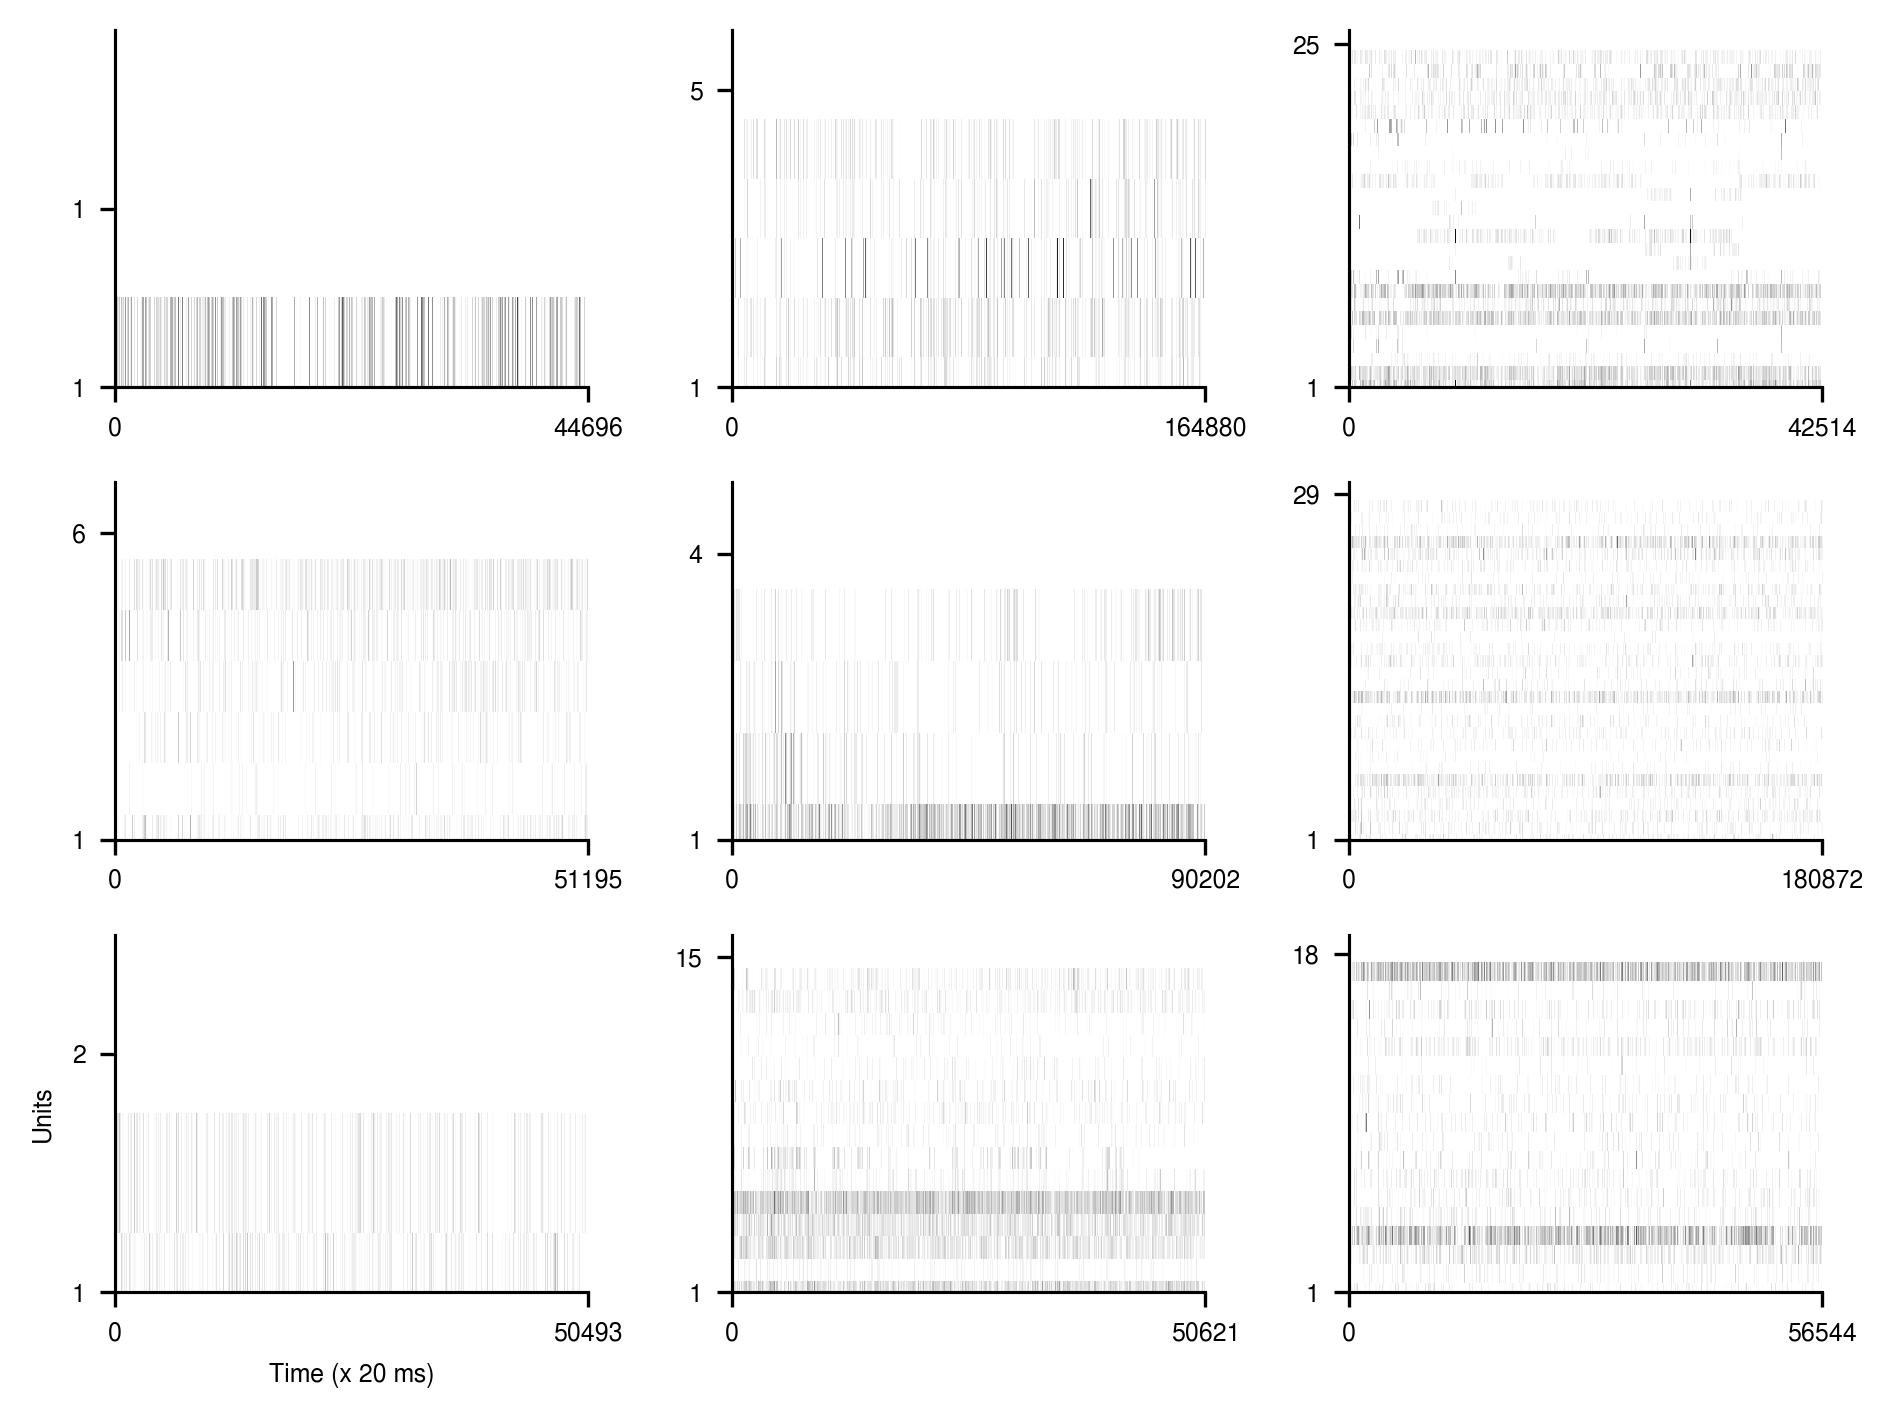
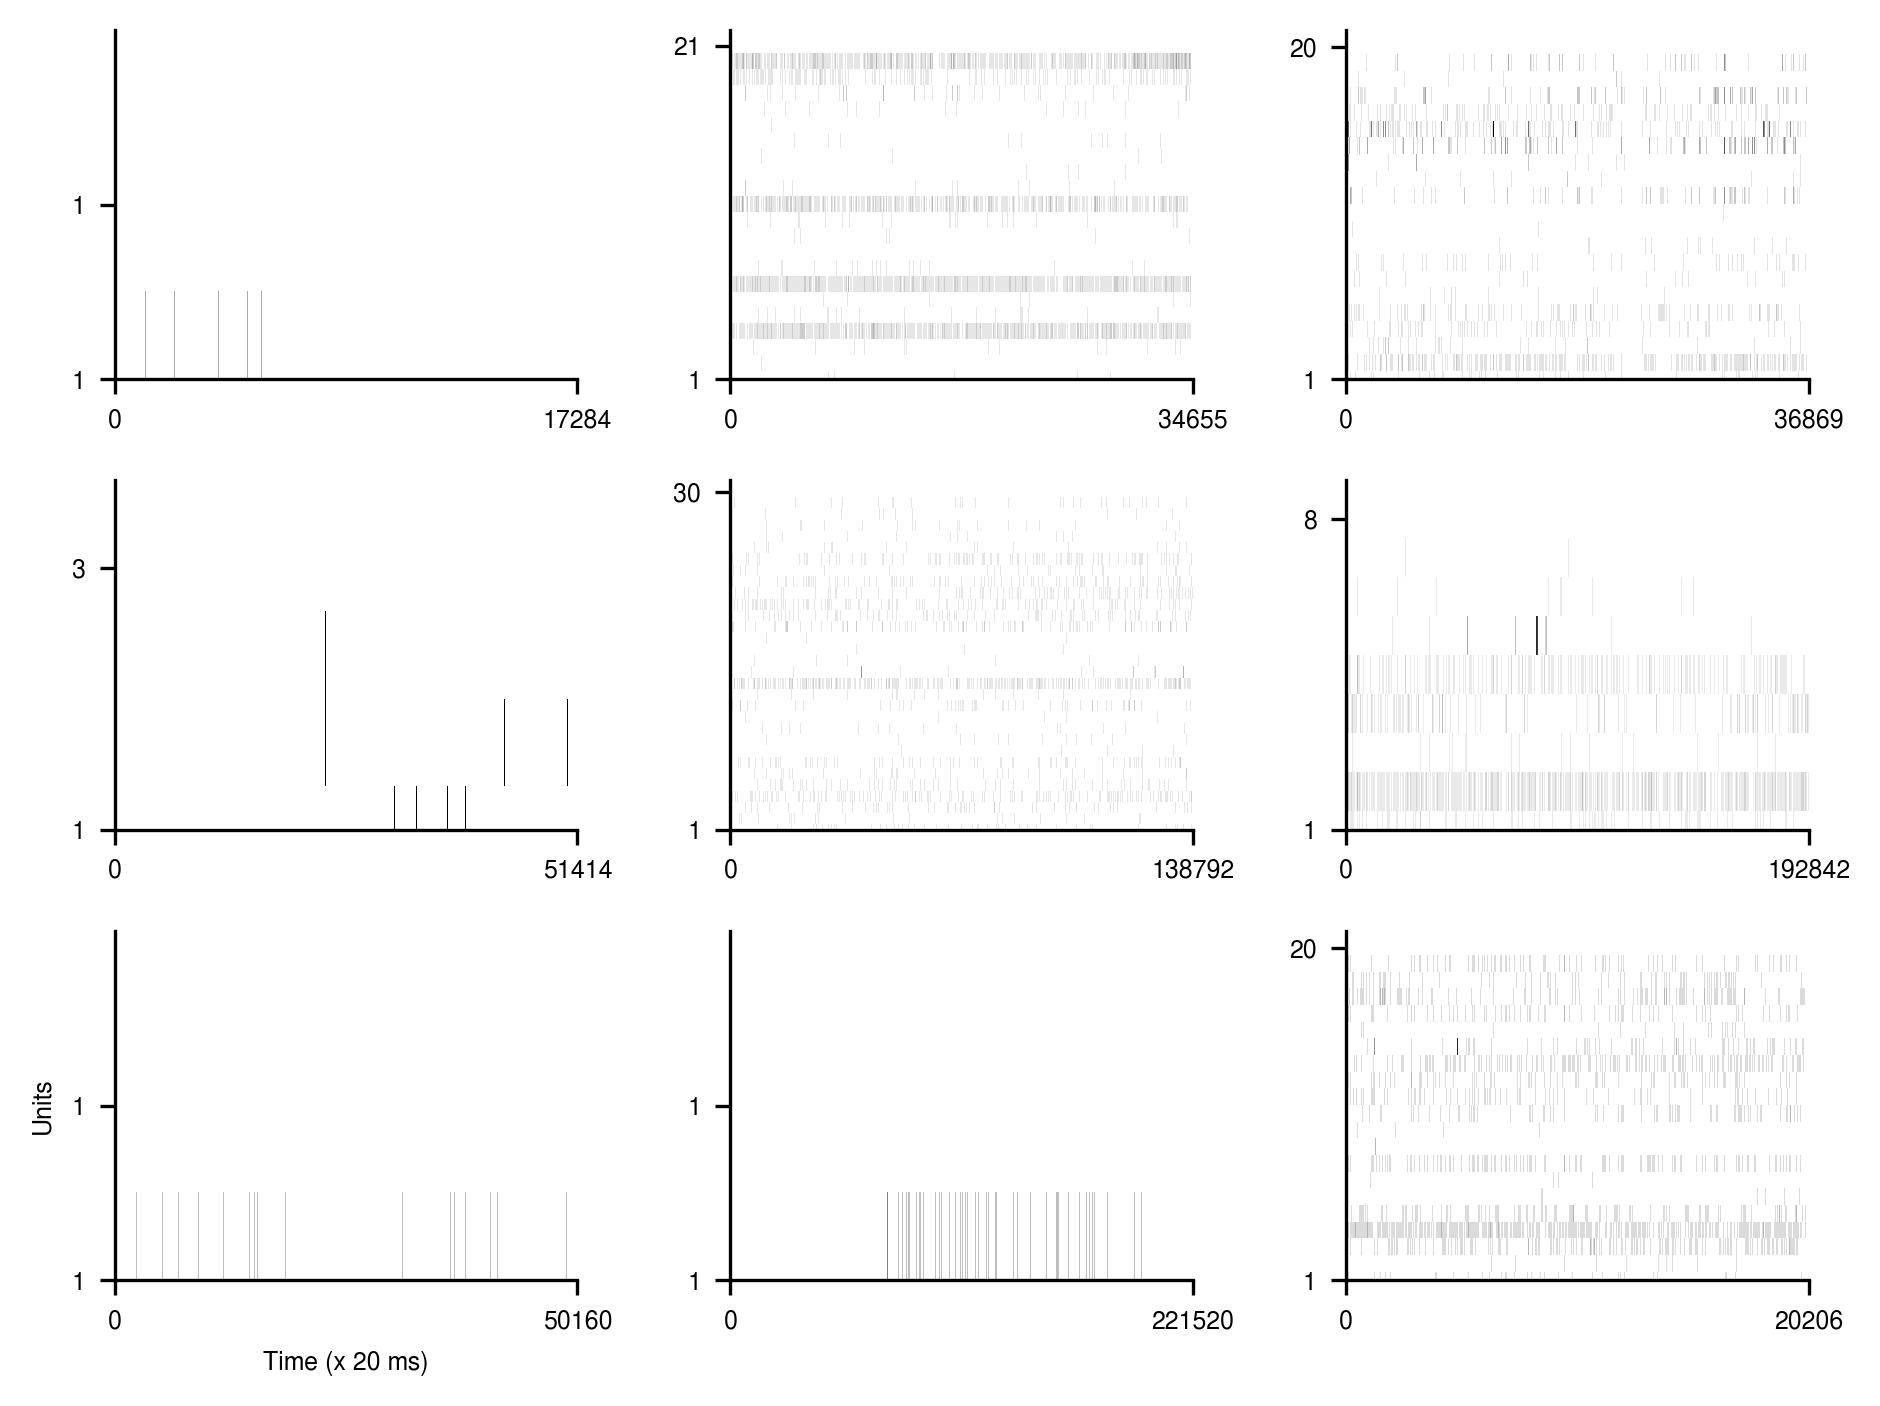
update gonzalez

diff --git a/visualize_dataset.py b/visualize_dataset.py
@@ -61,17 +61,17 @@ def visualize_dataset(repo_name, n_examples):
     mp.rcParams['mathtext.fontset'] = 'cm'
 
     os.makedirs('visuals', exist_ok=True)
-    save_path = os.path.join(output_dir, repo_name.split("/")[-1] + '.jpg')
+    save_path = os.path.join('visuals', repo_name.split("/")[-1] + '.jpg')
     plt.savefig(save_path, bbox_inches='tight', dpi=300)
     print(f"Saved figure to {save_path}")
-    plt.close(fig)
+    plt.close()
 
 def get_args_parser():
     parser = argparse.ArgumentParser(description='Plot random samples from component datasets as a quick visual sanity check.')
     
     # Group for mutually exclusive arguments
     group = parser.add_mutually_exclusive_group()
-    group.add_argument('--repo_name', type=str, choices=REPO_LIST, default="eminorhan/fujisawa", help='Visualize random samples from a single specified component dataset.')
+    group.add_argument('--repo_name', type=str, choices=REPO_LIST, default="eminorhan/v2h", help='Visualize random samples from a single specified component dataset.')
     group.add_argument('--plot_all', action='store_true', help='Visualize random samples from all component datasets in REPO_LIST.')
     parser.add_argument('--n_examples', default=9, type=int, help='Number of random samples to display.')
     return parser

diff --git a/data/gonzalez/create_dataset.py b/data/gonzalez/create_dataset.py
@@ -82,7 +82,7 @@ if __name__ == '__main__':
 
             # we will save just spike activity
             units = nwbfile.acquisition["firing_rates"].data[:]
-            spike_counts = np.round(units.T).astype(np.uint8)  # spike count matrix (nxt: n is #channels, t is time bins)
+            spike_counts = np.round(units.T / 50).astype(np.uint8)  # spike count matrix (nxt: n is #channels, t is time bins)
 
             # subject, session identifiers
             subject_id, session_id = extract_subject_session_id(file_path)

diff --git a/README.md b/README.md
@@ -71,13 +71,13 @@ def _default_backend_factory() -> requests.Session:
 or something along these lines (you can play with the `Retry` settings). This will prevent the premature termination of the job when faced with connection issues. 
 
 ## Visualizing the datasets
-[`visualize_dataset.py`](visualize_dataset.py) provides some basic functionality to visualize random samples from the datasets:
+[`visualize_dataset.py`](visualize_dataset.py) provides some basic functionality to visualize random samples from the datasets as a basic sanity check:
 ```python
-python visualize_datasets.py --repo_name 'eminorhan/vbn' --n_examples 9
+python visualize_datasets.py --repo_name 'eminorhan/v2h' --n_examples 9
 ```
 This will randomly sample `n_examples` examples from the corresponding dataset and visualize them as below, where *x* is the time axis (binned into 20 ms windows) and the *y* axis represents the recorded units:
 
-![](visuals/vbn.jpg)
+![](visuals/v2h.jpg)
 
 Users also have the option to visualize `n_examples` random examples from each component dataset by calling:
 ```python
